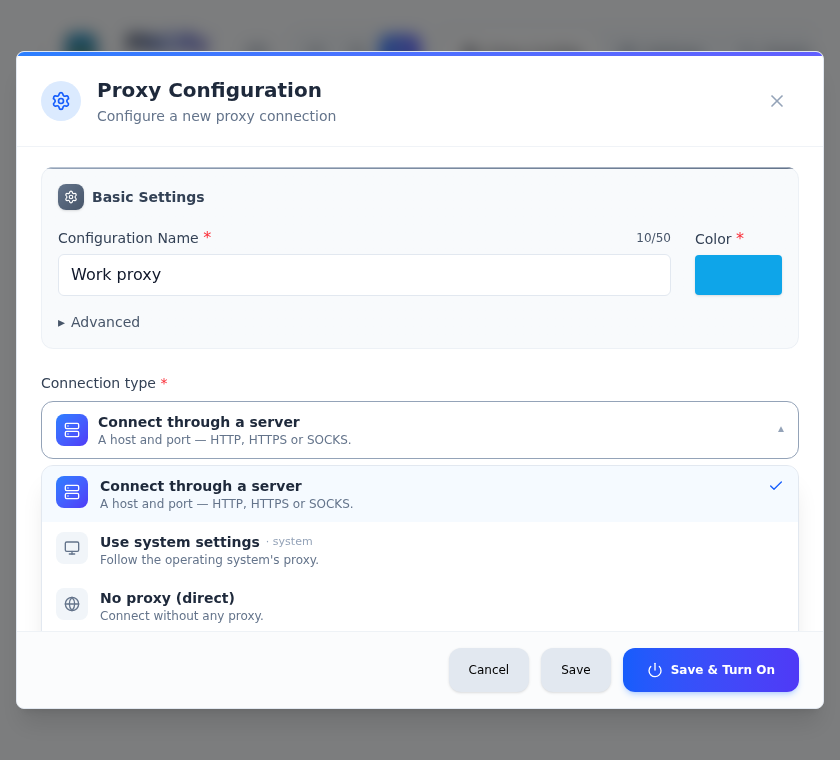
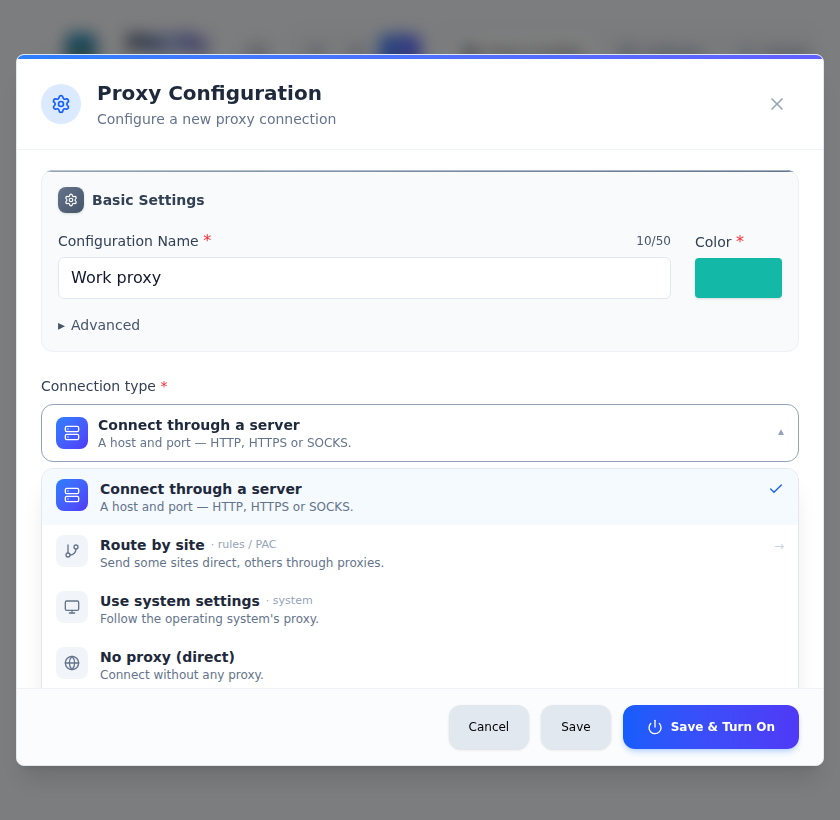
ux(wave2): unify 'Add proxy'; routing is a connection type (item 10)
Removes the competing two-button entry (blue 'Add Proxy' + orange
'Add Auto-Proxy'). There is now one 'Add proxy', and rule-based routing is a
choice inside the editor's Connection type dropdown — 'Route by site' (2nd,
after 'Connect through a server'). Picking it hands off to the existing
Auto-Proxy editor (interim, until item 15 stages that flow).

- ConnectionTypeSelect gains an optional onRouteBySite handoff (only when
  creating); ProxyConfigModal -> onSwitchToRouting -> Options opens the
  Auto-Proxy editor.
- Dropped the now-dead onOpenAutoProxyEditor prop chain into ProxyConfigsTab.
- e2e: the Auto-Proxy traffic test reaches routing via Add proxy -> Route by
  site (segment-route_by_site). 447 unit + 55 e2e green.

Wave 2 core complete (items 9-12).

https://claude.ai/code/session_01WR8AAJcV3zN2SacWaqB74c

diff --git a/src/components/ProxyConfig/ConnectionTypeSelect.svelte b/src/components/ProxyConfig/ConnectionTypeSelect.svelte
@@ -3,70 +3,95 @@ import type { ComponentType } from 'svelte'
 import type { ProxyMode } from '@/interfaces'
 import { I18nService } from '@/services/i18n/i18nService'
 import { cn } from '@/utils/cn'
-import { Check, Globe, Monitor, Radar, Server, Settings } from '@/utils/icons'
+import { Check, GitBranch, Globe, Monitor, Radar, Server, Settings } from '@/utils/icons'
 
 interface Props {
   value?: ProxyMode
   onchange?: (mode: ProxyMode) => void
+  // When provided, a "Route by site" choice appears that hands off to the
+  // rule-based routing editor (item 10) instead of selecting a chrome.proxy mode.
+  onRouteBySite?: () => void
 }
 
-let { value = $bindable('fixed_servers'), onchange }: Props = $props()
+let { value = $bindable('fixed_servers'), onchange, onRouteBySite }: Props = $props()
 
-interface Option {
-  value: ProxyMode
+interface MenuItem {
+  key: string
   label: string
   desc: string
   sub?: string
   icon: ComponentType
+  mode?: ProxyMode
+  route?: boolean
 }
 
 // De-jargoned "what kind of proxy" choices. Plain-language labels with the real
 // term as a sub-label so migrators who know "PAC"/"WPAD" still recognize it.
-// "Connect through a server" leads — it's the 80% case and the default.
-const options: Option[] = [
+// "Connect through a server" leads (the 80% case + default); "Route by site"
+// sits second and hands off to the routing editor.
+let items = $derived<MenuItem[]>([
   {
-    value: 'fixed_servers',
+    key: 'fixed_servers',
+    mode: 'fixed_servers',
     label: I18nService.getMessage('connTypeServer'),
     desc: I18nService.getMessage('connTypeServerDesc'),
     icon: Server,
   },
+  ...(onRouteBySite
+    ? [
+        {
+          key: 'route_by_site',
+          route: true,
+          label: I18nService.getMessage('connTypeRouting'),
+          desc: I18nService.getMessage('connTypeRoutingDesc'),
+          sub: 'rules / PAC',
+          icon: GitBranch,
+        } as MenuItem,
+      ]
+    : []),
   {
-    value: 'system',
+    key: 'system',
+    mode: 'system',
     label: I18nService.getMessage('connTypeSystem'),
     desc: I18nService.getMessage('connTypeSystemDesc'),
     sub: 'system',
     icon: Monitor,
   },
   {
-    value: 'direct',
+    key: 'direct',
+    mode: 'direct',
     label: I18nService.getMessage('connTypeDirect'),
     desc: I18nService.getMessage('connTypeDirectDesc'),
     icon: Globe,
   },
   {
-    value: 'auto_detect',
+    key: 'auto_detect',
+    mode: 'auto_detect',
     label: I18nService.getMessage('connTypeAutoDetect'),
     desc: I18nService.getMessage('connTypeAutoDetectDesc'),
     sub: 'WPAD',
     icon: Radar,
   },
   {
-    value: 'pac_script',
+    key: 'pac_script',
+    mode: 'pac_script',
     label: I18nService.getMessage('connTypePac'),
     desc: I18nService.getMessage('connTypePacDesc'),
     sub: 'PAC',
     icon: Settings,
   },
-]
+])
 
 let open = $state(false)
-let selected = $derived(options.find((o) => o.value === value) ?? options[0])
+let selected = $derived(items.find((o) => o.mode === value) ?? items[0])
 
-function choose(mode: ProxyMode) {
+function pick(item: MenuItem) {
   open = false
-  if (mode !== value) {
-    value = mode
-    onchange?.(mode)
+  if (item.route) {
+    onRouteBySite?.()
+  } else if (item.mode && item.mode !== value) {
+    value = item.mode
+    onchange?.(item.mode)
   }
 }
 
@@ -79,16 +104,16 @@ function onTriggerKeydown(event: KeyboardEvent) {
 
 function onMenuKeydown(event: KeyboardEvent) {
   const menu = event.currentTarget as HTMLElement
-  const items = Array.from(menu.querySelectorAll<HTMLElement>('[role="option"]'))
-  const i = items.indexOf(document.activeElement as HTMLElement)
+  const opts = Array.from(menu.querySelectorAll<HTMLElement>('[role="option"]'))
+  const i = opts.indexOf(document.activeElement as HTMLElement)
   if (event.key === 'Escape') {
     open = false
   } else if (event.key === 'ArrowDown') {
     event.preventDefault()
-    items[Math.min(i + 1, items.length - 1)]?.focus()
+    opts[Math.min(i + 1, opts.length - 1)]?.focus()
   } else if (event.key === 'ArrowUp') {
     event.preventDefault()
-    items[Math.max(i - 1, 0)]?.focus()
+    opts[Math.max(i - 1, 0)]?.focus()
   }
 }
 </script>
@@ -140,15 +165,15 @@ function onMenuKeydown(event: KeyboardEvent) {
       onkeydown={onMenuKeydown}
       class="absolute z-30 mt-1.5 w-full max-h-80 overflow-y-auto rounded-xl border border-slate-200 dark:border-slate-700 bg-white dark:bg-slate-800 shadow-xl"
     >
-      {#each options as option (option.value)}
-        {@const isSel = option.value === value}
+      {#each items as item (item.key)}
+        {@const isSel = !item.route && item.mode === value}
         <button
           type="button"
           role="option"
           aria-selected={isSel}
           tabindex="0"
-          data-testid="segment-{option.value}"
-          onclick={() => choose(option.value)}
+          data-testid="segment-{item.key}"
+          onclick={() => pick(item)}
           class={cn(
             'w-full flex items-start gap-3 px-3.5 py-2.5 text-left transition focus:outline-none focus-visible:bg-blue-50 dark:focus-visible:bg-blue-950/30',
             isSel ? 'bg-blue-50/60 dark:bg-blue-950/20' : 'hover:bg-slate-50 dark:hover:bg-slate-700/40'
@@ -162,21 +187,25 @@ function onMenuKeydown(event: KeyboardEvent) {
                 : 'bg-slate-100 dark:bg-slate-700 text-slate-500 dark:text-slate-300'
             )}
           >
-            <option.icon size={16} />
+            <item.icon size={16} />
           </span>
           <span class="min-w-0 flex-1">
             <span class="flex items-center gap-1.5">
               <span class="text-sm font-semibold text-slate-800 dark:text-slate-100">
-                {option.label}
+                {item.label}
               </span>
-              {#if option.sub}
-                <span class="text-[11px] text-slate-400 dark:text-slate-500">· {option.sub}</span>
+              {#if item.sub}
+                <span class="text-[11px] text-slate-400 dark:text-slate-500">· {item.sub}</span>
               {/if}
             </span>
-            <span class="block text-xs text-slate-500 dark:text-slate-400">{option.desc}</span>
+            <span class="block text-xs text-slate-500 dark:text-slate-400">{item.desc}</span>
           </span>
           {#if isSel}
             <Check size={16} class="shrink-0 mt-0.5 text-blue-600 dark:text-blue-400" />
+          {:else if item.route}
+            <span class="shrink-0 mt-0.5 text-slate-300 dark:text-slate-600" aria-hidden="true"
+              >→</span
+            >
           {/if}
         </button>
       {/each}

diff --git a/src/options/ProxyConfigsTab.svelte b/src/options/ProxyConfigsTab.svelte
@@ -15,16 +15,15 @@ import type { DropItem, ViewMode } from '@/interfaces'
 import { I18nService } from '@/services/i18n/i18nService'
 import { settingsStore } from '@/stores/settingsStore'
 import { toastStore } from '@/stores/toastStore'
-import { Cable, CircleQuestionMark, GitBranch, Search, Zap } from '@/utils/icons'
+import { Cable, CircleQuestionMark, Plus, Search, Zap } from '@/utils/icons'
 import { colors } from '@/utils/theme'
 
 interface Props {
   onOpenEditor: (scriptId?: string) => void
-  onOpenAutoProxyEditor: () => void
   onOpenImport?: () => void
 }
 
-let { onOpenEditor, onOpenAutoProxyEditor, onOpenImport }: Props = $props()
+let { onOpenEditor, onOpenImport }: Props = $props()
 
 let settings = $derived($settingsStore)
 let dragType = $state<'QUICK_SWITCH' | 'OPTIONS' | ''>('')
@@ -213,27 +212,14 @@ async function handleViewModeChange(mode: ViewMode) {
           onclick={toggleSearch}
         />
 
-        <!-- Add Auto-Proxy Button -->
-        <Tooltip
-          text={I18nService.getMessage('addAutoProxyTooltip') || 'Create URL-based routing rules'}
-          position="bottom"
-        >
-          <Button
-            variant="gradient"
-            gradient="orange"
-            onclick={onOpenAutoProxyEditor}
-            data-testid="add-auto-proxy-btn"
-          >
-            {#snippet icon()}
-              <GitBranch size={16} />
-            {/snippet}
-            {I18nService.getMessage('addAutoProxy') || 'Add Auto-Proxy'}
-          </Button>
-        </Tooltip>
-
-        <!-- Add New Script Button -->
+        <!-- Single "Add proxy" entry. Rule-based routing is now a connection
+             type inside the editor ("Route by site"), so the separate
+             Add Auto-Proxy button is gone (item 10). -->
         <Tooltip text={I18nService.getMessage('tooltipKeyboardShortcut')} position="bottom">
           <Button data-testid="add-new-script-btn" color="primary" onclick={() => onOpenEditor()}>
+            {#snippet icon()}
+              <Plus size={16} />
+            {/snippet}
             {I18nService.getMessage('addNewScript')}
           </Button>
         </Tooltip>

diff --git a/src/options/Options.svelte b/src/options/Options.svelte
@@ -382,11 +382,7 @@ async function handleImported() {
 
     <!-- Tab 1: Proxy Configs -->
     <TabPanel id="proxy-configs">
-      <ProxyConfigsTab
-        onOpenEditor={handleOpenEditor}
-        onOpenAutoProxyEditor={() => openAutoProxyEditor()}
-        onOpenImport={openImport}
-      />
+      <ProxyConfigsTab onOpenEditor={handleOpenEditor} onOpenImport={openImport} />
     </TabPanel>
 
     <!-- Tab 2: Settings -->
@@ -409,6 +405,11 @@ async function handleImported() {
           : undefined}
         onSave={handleScriptSave}
         onCancel={() => (showEditor = false)}
+        onSwitchToRouting={() => {
+          // Hand off "Route by site" to the rule-based routing editor (item 10).
+          showEditor = false
+          openAutoProxyEditor()
+        }}
       />
     {:else if isLoadingModal}
       {@render loadingModal(I18nService.getMessage('loadingEditor'))}

diff --git a/src/components/ProxyConfig/ProxyConfigModal.svelte b/src/components/ProxyConfig/ProxyConfigModal.svelte
@@ -24,9 +24,12 @@ interface Props {
   proxyConfig?: ProxyConfig
   onSave: (config: Omit<ProxyConfig, 'id'>, activate: boolean) => Promise<void>
   onCancel: () => void
+  // Picking "Route by site" in the connection-type dropdown hands off to the
+  // rule-based routing editor (item 10). Only offered when creating.
+  onSwitchToRouting?: () => void
 }
 
-let { proxyConfig = undefined, onSave, onCancel }: Props = $props()
+let { proxyConfig = undefined, onSave, onCancel, onSwitchToRouting }: Props = $props()
 
 // Which footer verb was pressed: "Save" (false) or "Save & Turn On" (true).
 let activateOnSave = $state(false)
@@ -354,7 +357,10 @@ function handleBackdropClick(event: MouseEvent) {
             {I18nService.getMessage('connectionType')}
             <span class="text-red-500">*</span>
           </span>
-          <ConnectionTypeSelect bind:value={proxyMode} />
+          <ConnectionTypeSelect
+            bind:value={proxyMode}
+            onRouteBySite={proxyConfig ? undefined : onSwitchToRouting}
+          />
         </div>
 
         <!-- Mode-specific Configuration -->

diff --git a/tests/e2e/traffic-modes.spec.ts b/tests/e2e/traffic-modes.spec.ts
@@ -148,8 +148,11 @@ test.describe('PAC-based routing modes', () => {
     const page = await optionsPage()
 
     // Create an Auto-Proxy whose single rule sends the primary host to an inline
-    // proxy; the fallback (default) is DIRECT.
-    await page.getByTestId('add-auto-proxy-btn').click()
+    // proxy; the fallback (default) is DIRECT. Routing is now reached via the
+    // unified "Add proxy" → connection type "Route by site" (item 10).
+    await page.getByTestId('add-new-script-btn').click()
+    await page.getByTestId('conn-type-trigger').click()
+    await page.getByTestId('segment-route_by_site').click()
     await page.locator('#name').fill('Auto Routes')
     const addEmpty = page.getByTestId('add-rule-empty-btn')
     if (await addEmpty.count()) {